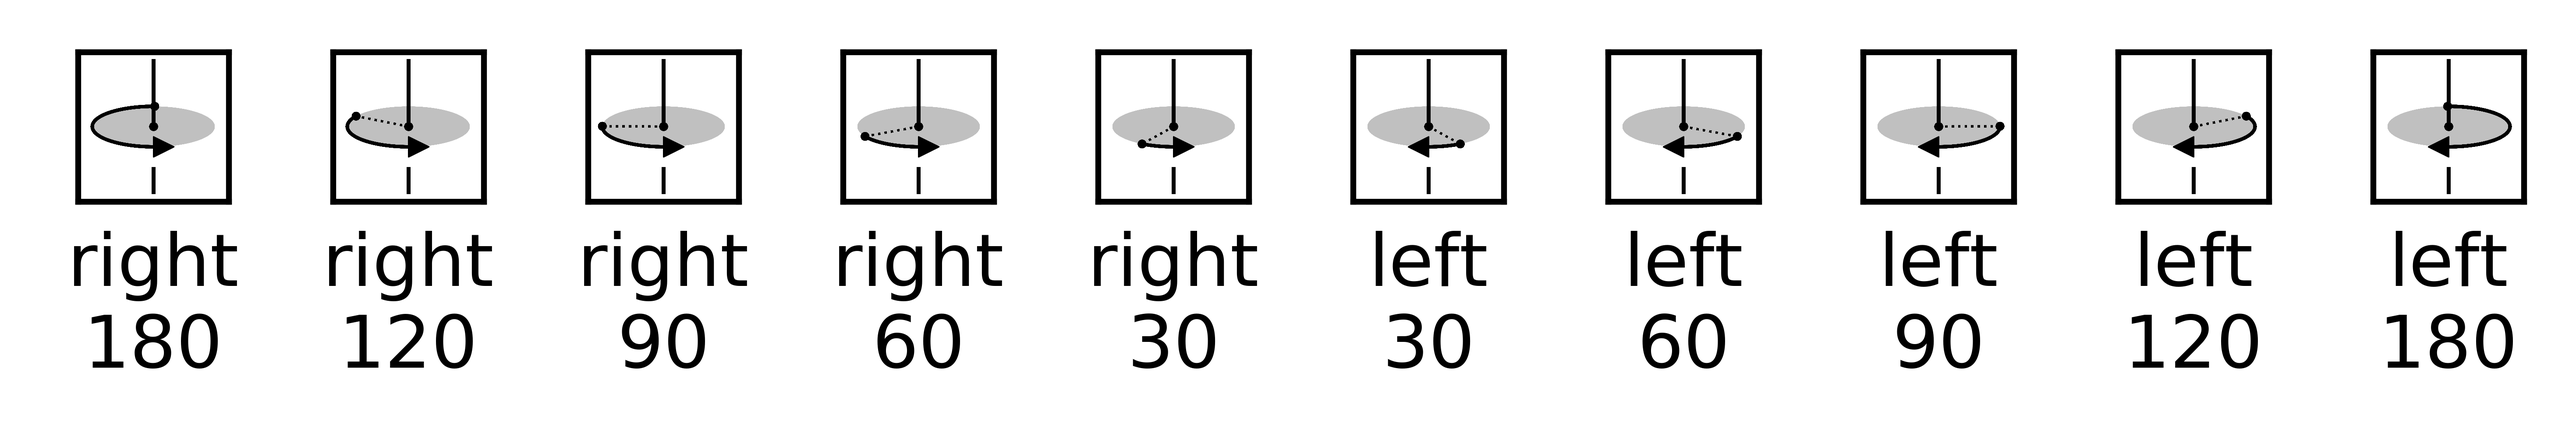
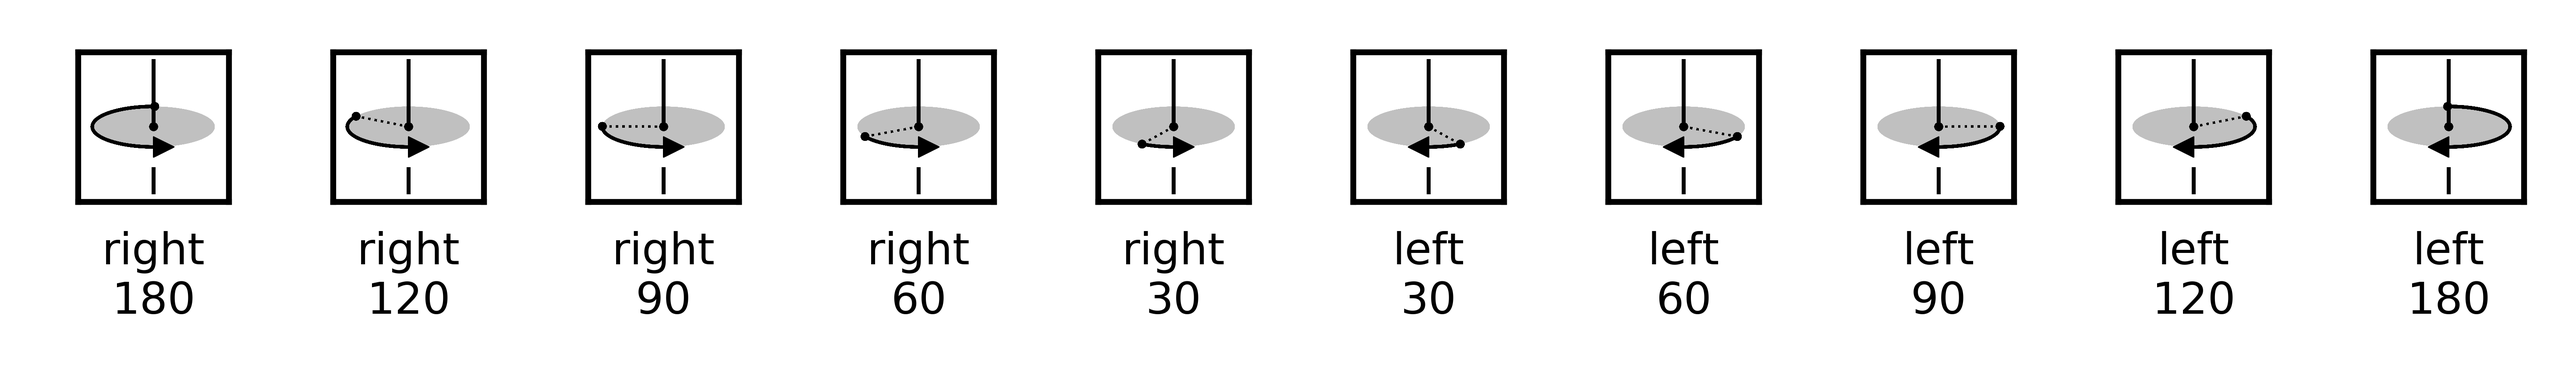
normal update
add icon styles

diff --git a/cases/icons.py b/cases/icons.py
@@ -20,7 +20,7 @@ def combination_1():
         pyplot.ylim(image_data.height + 100, -100)
         pyplot.xticks([])
         pyplot.yticks([])
-        pyplot.xlabel(turn + "\n" + str(degree), fontsize=10)
+        pyplot.xlabel(turn + "\n" + str(degree), fontsize=6)
         remove("./temp/comb1.png")
         index += 1
 
@@ -35,7 +35,7 @@ def combination_1():
         pyplot.ylim(image_data.height + 100, -100)
         pyplot.xticks([])
         pyplot.yticks([])
-        pyplot.xlabel(turn + "\n" + str(degree), fontsize=10)
+        pyplot.xlabel(turn + "\n" + str(degree), fontsize=6)
         remove("./temp/comb1.png")
         index += 1
 
